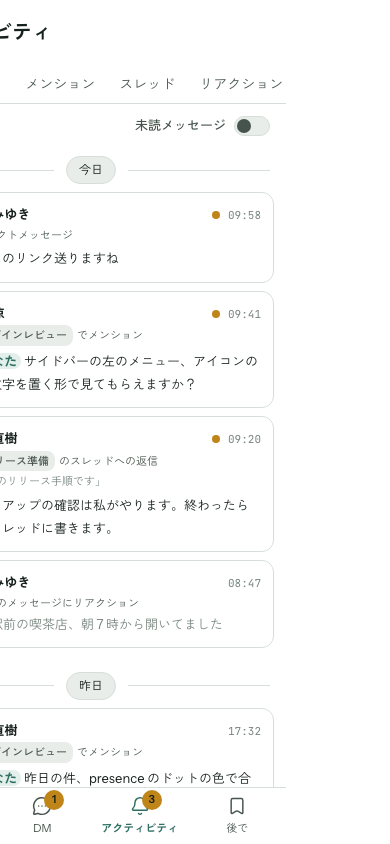
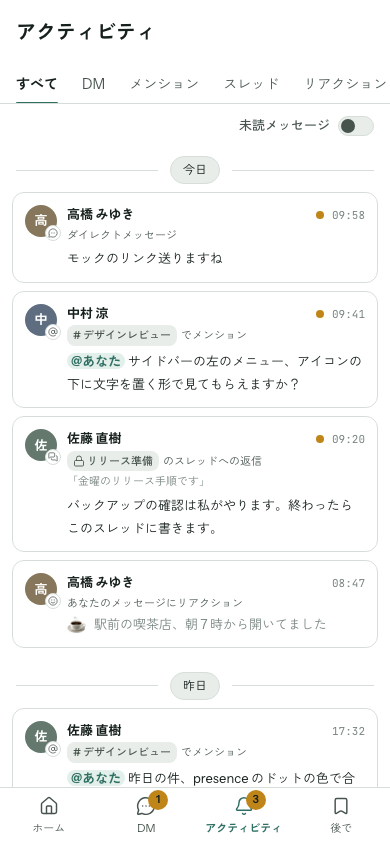
fix(web): 選んだタブを寄せるときに画面の外枠まで横にずれないようにする
scrollIntoView はスクロールできる祖先を全部動かすので、モバイルでメインの領域が右に隠れている
ChatLayout の外枠（overflow-hidden）まで横にずれて、一覧が左に切れていた。
タブの並びをじかに包む要素の scrollLeft だけを動かす。

diff --git a/web/components/ui/tabs.test.tsx b/web/components/ui/tabs.test.tsx
@@ -26,19 +26,40 @@ describe("Tabs", () => {
     expect(screen.getByRole("tab", { name: "二つ目" })).toBeInTheDocument();
   });
 
-  it("選んでいるタブを、横にスクロールする並びの見える位置へ寄せる（ADR 0058）", () => {
-    const scrollIntoView = vi.fn();
-    // jsdom には scrollIntoView がないので、この test の間だけ足す
-    Element.prototype.scrollIntoView = scrollIntoView;
+  it("選んでいるタブを、並びを包む要素の中だけで見える位置へ寄せる（ADR 0058）", () => {
+    // jsdom は配置を計算しないので、包む要素（幅 100）と各タブ（幅 60 ずつ横に並ぶ）の位置を与える
+    const rect = (left: number, width: number) => ({ left, right: left + width, top: 0, bottom: 0, width, height: 0, x: left, y: 0 }) as DOMRect;
+    const spy = vi.spyOn(Element.prototype, "getBoundingClientRect").mockImplementation(function (this: Element) {
+      if (this.getAttribute("role") === "tab") {
+        const index = ["a", "b", "c"].indexOf(this.getAttribute("data-value")!);
+        const scrollLeft = this.closest("[data-testid=box]")!.scrollLeft;
+        return rect(index * 60 - scrollLeft, 60);
+      }
+      return rect(0, 100);
+    });
     try {
-      const { rerender } = render(<Tabs label="タブ" items={items} value="a" />);
-      expect(scrollIntoView.mock.contexts.at(-1)).toBe(screen.getByRole("tab", { name: "一つ目3" }));
+      const outer = document.createElement("div");
+      document.body.append(outer);
+      const { rerender } = render(
+        <div data-testid="box">
+          <Tabs label="タブ" items={items} value="a" />
+        </div>,
+        { container: outer },
+      );
+      const box = screen.getByTestId("box");
+      expect(box.scrollLeft).toBe(0);
 
-      rerender(<Tabs label="タブ" items={items} value="c" />);
-      expect(scrollIntoView.mock.contexts.at(-1)).toBe(screen.getByRole("tab", { name: "三つ目" }));
-      expect(scrollIntoView).toHaveBeenLastCalledWith({ block: "nearest", inline: "nearest" });
+      rerender(
+        <div data-testid="box">
+          <Tabs label="タブ" items={items} value="c" />
+        </div>,
+      );
+      // 三つ目（120〜180）の右端が 100 に来るまで寄せる
+      expect(box.scrollLeft).toBe(80);
+      // 外側の要素は動かさない（scrollIntoView が画面の外枠まで動かして、モバイルで崩れたため）
+      expect(outer.scrollLeft).toBe(0);
     } finally {
-      delete (Element.prototype as { scrollIntoView?: unknown }).scrollIntoView;
+      spy.mockRestore();
     }
   });
 

diff --git a/web/components/ui/tabs.tsx b/web/components/ui/tabs.tsx
@@ -38,13 +38,19 @@ export function Tabs<T extends string>({
   const list = useRef<HTMLDivElement>(null);
 
   // 並びが横にスクロールする置き場所（サイドバーの列のアクティビティ・後で。ADR 0058）では、選んだタブが隠れないように見える位置へ寄せる。
-  // 収まっているときは何も動かない（nearest）。書体の読み込みでタブの幅が変わるので、読み込み後にもう一度寄せる。
-  // jsdom には scrollIntoView も document.fonts もないので、あるときだけ呼ぶ
+  // scrollIntoView は使わない。スクロールできる祖先を全部動かすので、画面の外枠（overflow-hidden でもスクリプトからは動く）まで
+  // 横にずれて、モバイルで画面が崩れた。動かすのは並びをじかに包む要素だけにする。
+  // 書体の読み込みでタブの幅が変わるので、読み込み後にもう一度寄せる（jsdom には document.fonts がない）
   useEffect(() => {
     let active = true;
     const reveal = () => {
-      if (!active) return;
-      list.current?.querySelector<HTMLElement>(`[data-value="${value}"]`)?.scrollIntoView?.({ block: "nearest", inline: "nearest" });
+      const box = list.current?.parentElement;
+      const tab = list.current?.querySelector<HTMLElement>(`[data-value="${value}"]`);
+      if (!active || !box || !tab) return;
+      const boxRect = box.getBoundingClientRect();
+      const tabRect = tab.getBoundingClientRect();
+      if (tabRect.left < boxRect.left) box.scrollLeft -= boxRect.left - tabRect.left;
+      else if (tabRect.right > boxRect.right) box.scrollLeft += tabRect.right - boxRect.right;
     };
     reveal();
     void document.fonts?.ready.then(reveal);
